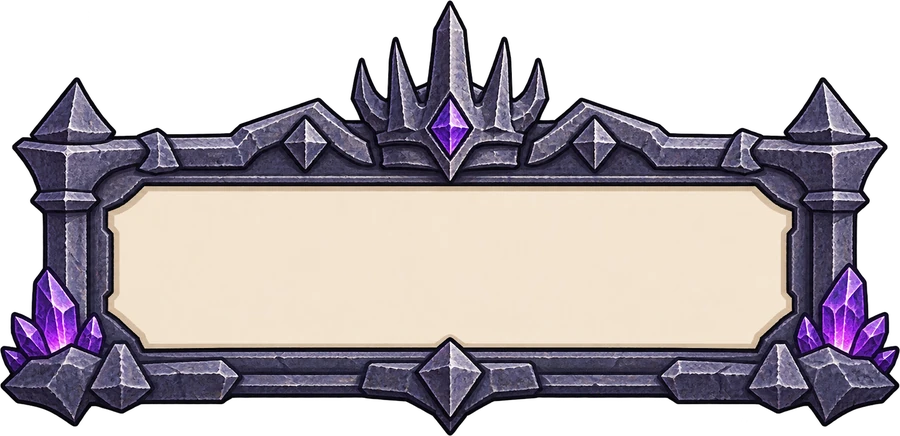
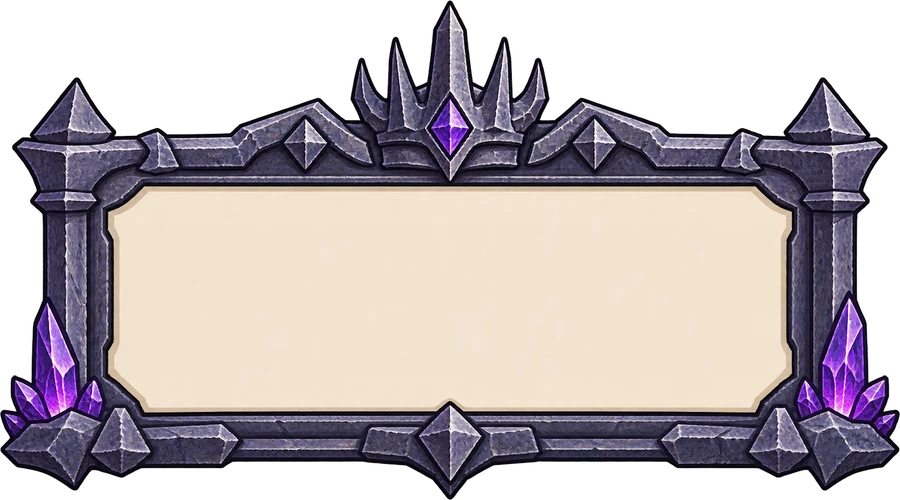
Add files via upload

diff --git a/index.html b/index.html
@@ -4220,7 +4220,7 @@ function cloudSprite(){
 const SIGN_ART = {
   meadow: [0.117,0.319,0.886,0.798], desert:[0.152,0.273,0.849,0.593],
   ice:    [0.150,0.310,0.857,0.751], volcano:[0.149,0.305,0.848,0.709],
-  night:  [0.133,0.304,0.865,0.776], castle:[0.134,0.438,0.866,0.796]
+  night:  [0.133,0.304,0.865,0.776], castle:[0.134,0.382,0.866,0.822]
 };
 function mixHex(a,b,k){
   const ar=(a>>16)&255, ag=(a>>8)&255, ab=a&255, br=(b>>16)&255, bg=(b>>8)&255, bb=b&255;

diff --git a/sw.js b/sw.js
@@ -1,6 +1,6 @@
 /* HY ENG 서비스워커 — 게임 파일을 캐시해 두 번째부터는 오프라인에서도 실행됩니다.
    게임을 수정한 뒤에는 아래 VERSION 숫자를 꼭 올리세요. 그래야 새 버전이 반영됩니다. */
-const VERSION = "hyeng-v140";
+const VERSION = "hyeng-v141";
 const CORE = [
   "./",
   "./index.html",
